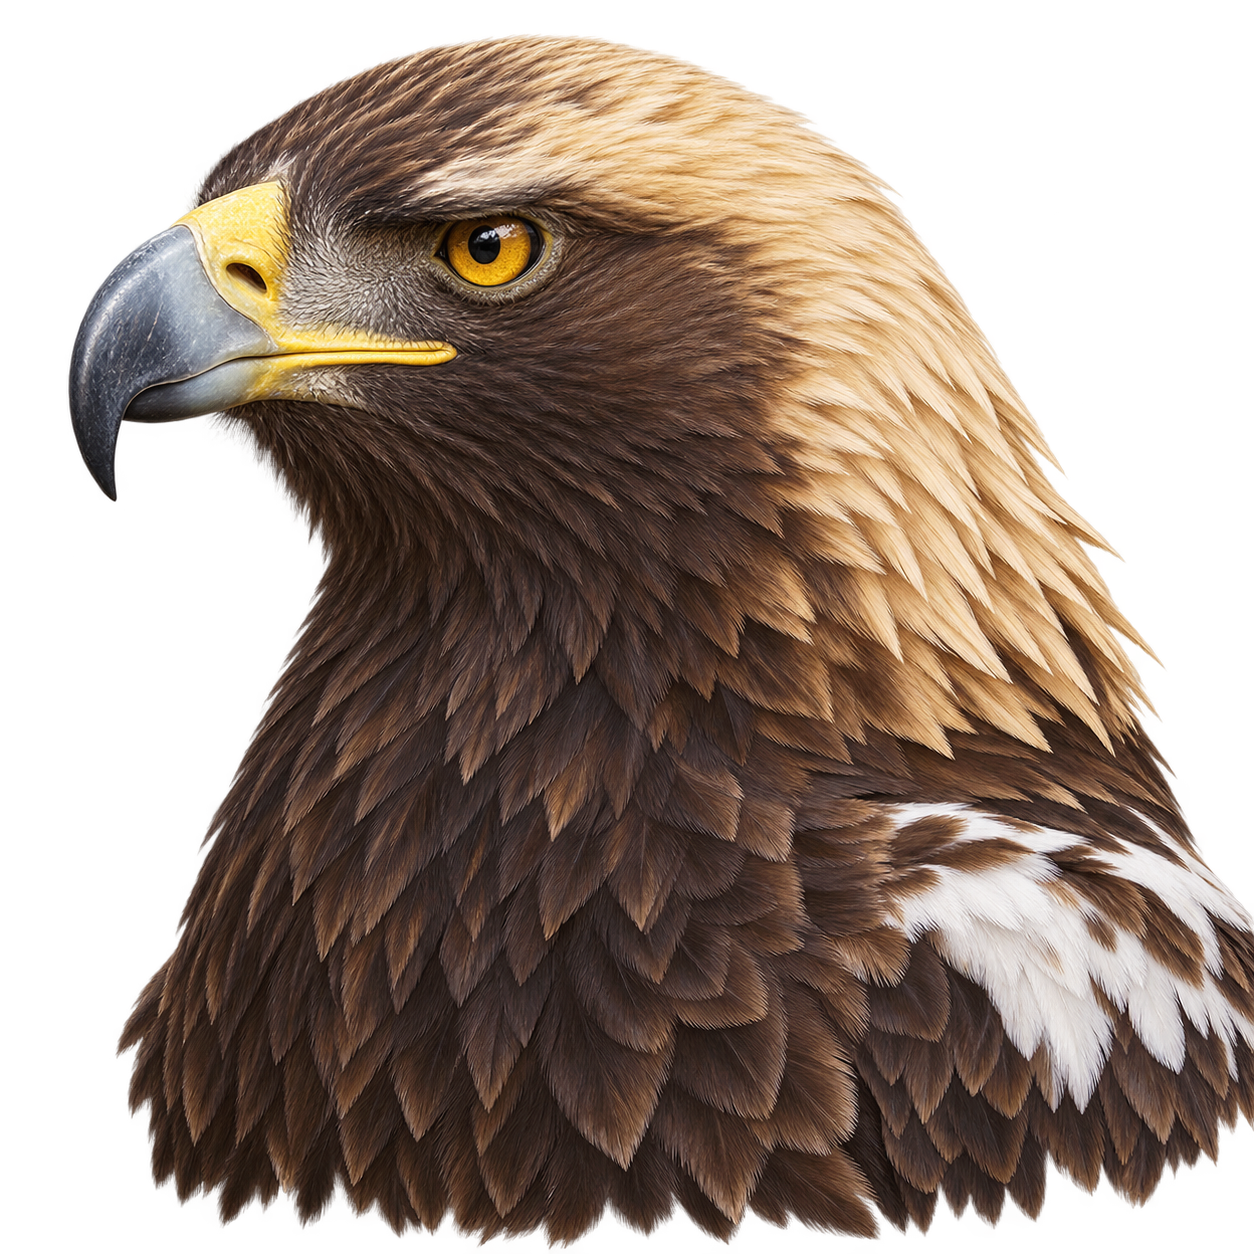
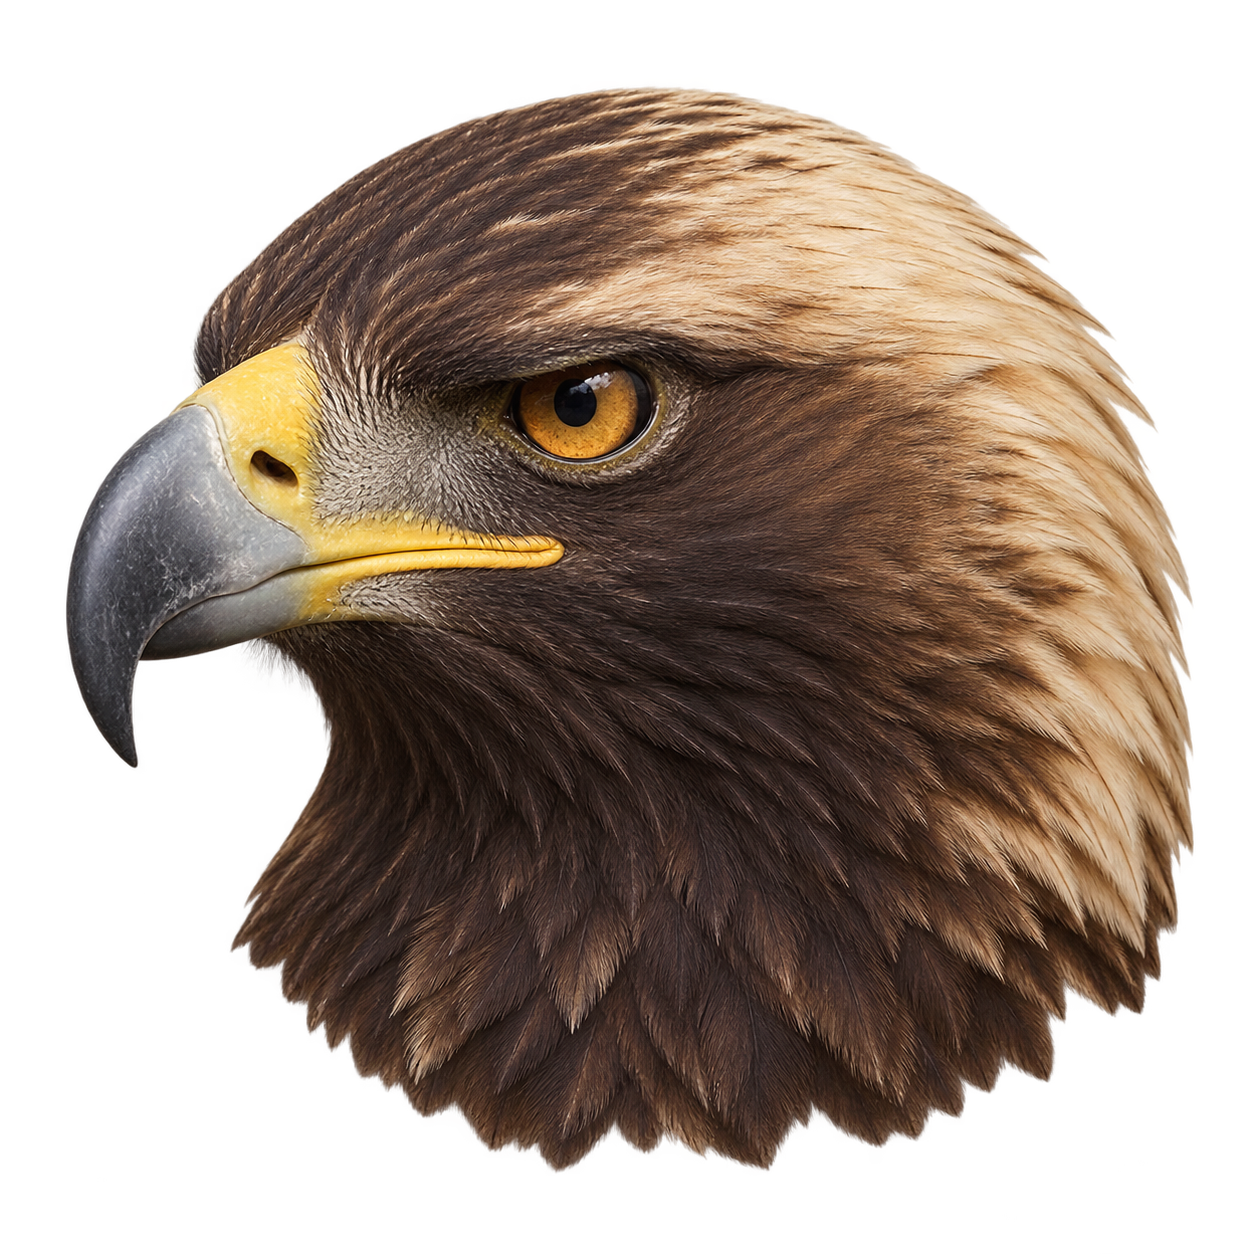
fix(images): focus five eagle portraits on the head

diff --git a/lib/portrait-images.ts b/lib/portrait-images.ts
@@ -1,8 +1,8 @@
 export const portraitImages: Record<string, string> = {
-  habichtsadler: '/birds/portrait-habichtsadler.png',
-  iberienadler: '/birds/portrait-iberienadler.png',
-  klippenadler: '/birds/portrait-klippenadler.png',
-  zwergadler: '/birds/portrait-zwergadler.png',
+  habichtsadler: '/birds/portrait-habichtsadler.png?v=66274418c6ef',
+  iberienadler: '/birds/portrait-iberienadler.png?v=819d3344762d',
+  klippenadler: '/birds/portrait-klippenadler.png?v=08b84b490975',
+  zwergadler: '/birds/portrait-zwergadler.png?v=89c4f450f81f',
 
   rotschwanzbussard: '/birds/portrait-rotschwanzbussard.png?v=e9022360ffb0',
   falklandkarakara: '/birds/portrait-falklandkarakara.png?v=add0d454c053',
@@ -33,7 +33,7 @@ export const portraitImages: Record<string, string> = {
   turmfalke: '/birds/portrait-turmfalke.png?v=79efac9042ba',
   wuestenbussard: '/birds/portrait-wuestenbussard-20260907.png',
   kronenadler: '/birds/portrait-kronenadler.png?v=d675a84eb9f5',
-  kaiseradler: '/birds/portrait-kaiseradler.png?v=d2a673b25fc8',
+  kaiseradler: '/birds/portrait-kaiseradler.png?v=84dc6567eb1e',
   steppenadler: '/birds/portrait-steppenadler.png?v=99d2f86658ba',
   sekretaer: '/birds/portrait-sekretaer-20260907.png',
   bartgeier: '/birds/portrait-bartgeier-20260907.png',
